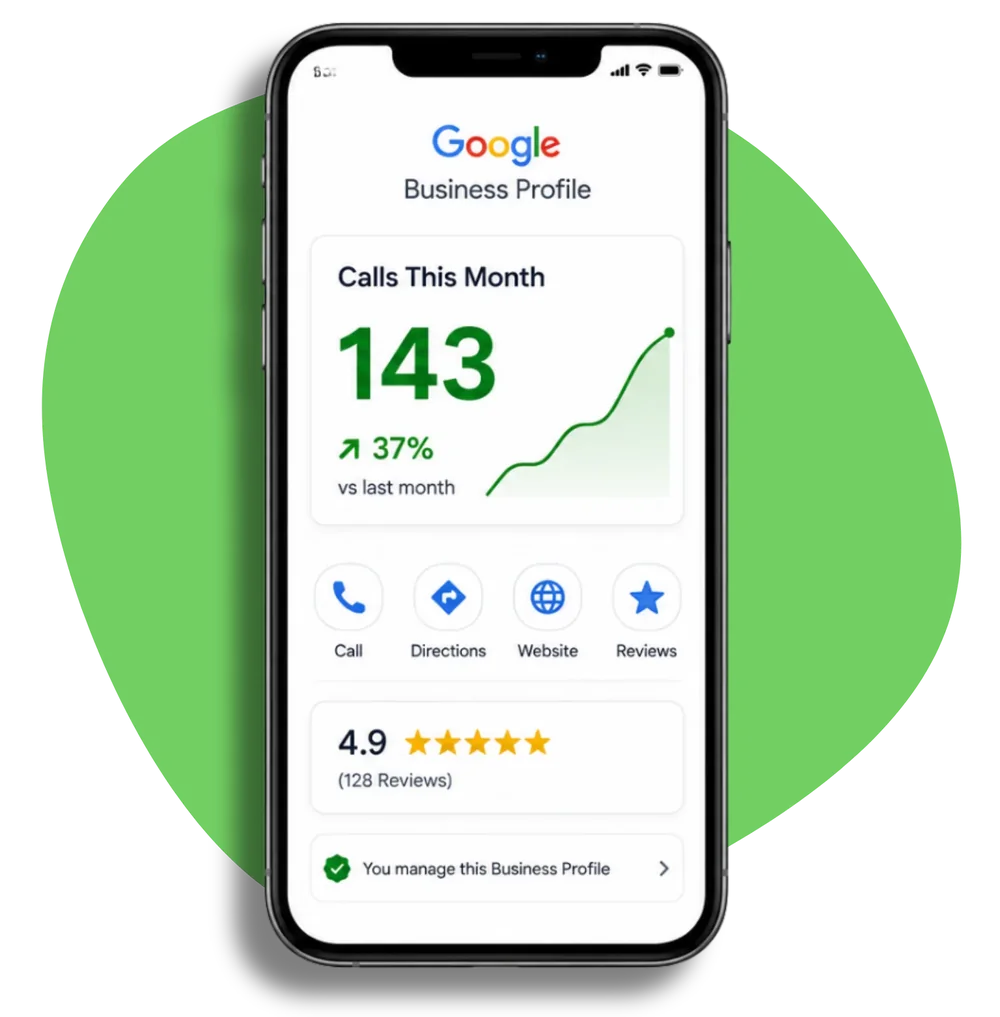
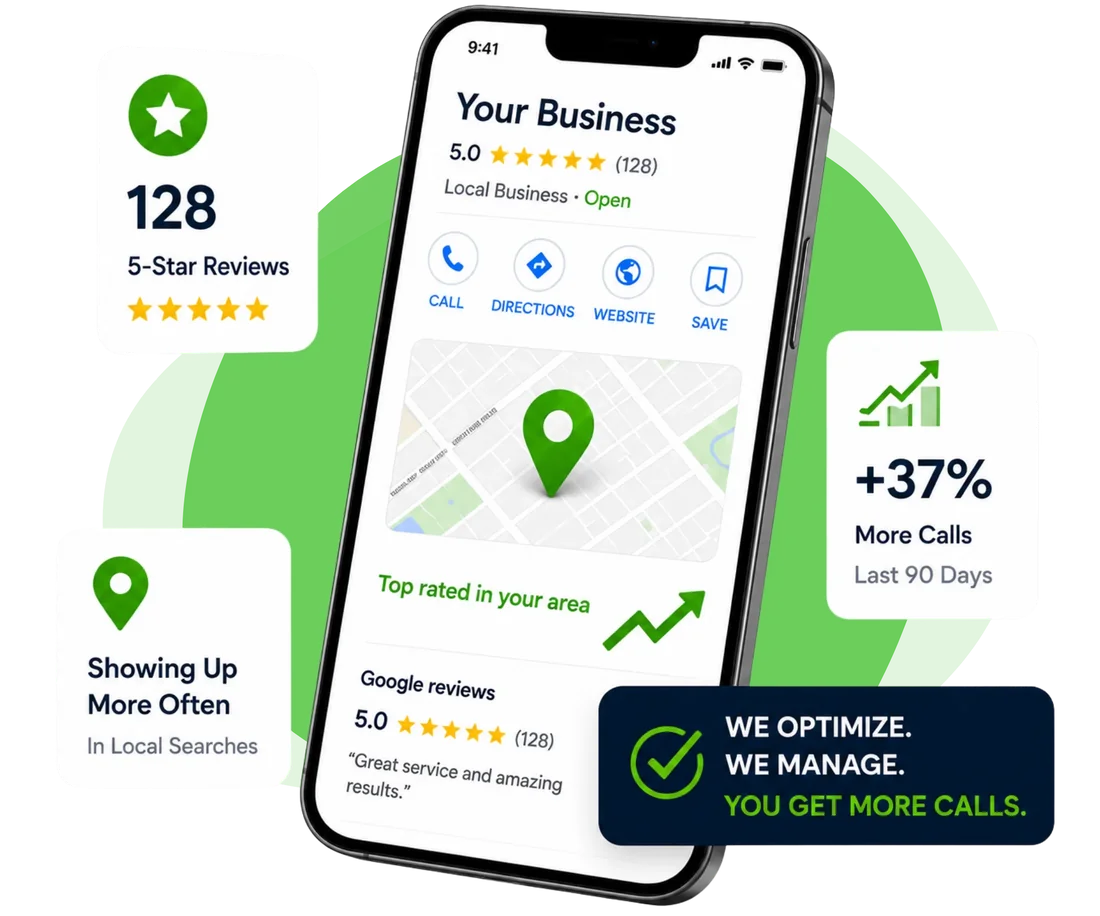
Hero uses the original composite graphic; calls phone back in final CTA
Claude-Session: https://claude.ai/code/session_01K6U76hbUx4f2DoiBpG8n3E

diff --git a/index.html b/index.html
@@ -120,7 +120,7 @@
         <p class="rating-line"><span class="stars" aria-hidden="true">★★★★★</span> <b>5.0</b> from 54 reviews across Google, Facebook &amp; Trustpilot&nbsp;·&nbsp;Real team in Springfield, MO</p>
       </div>
       <div class="hero-media">
-        <img src="assets/hero-phone.webp" alt="Google Business Profile managed by Nearby Calls: 143 calls this month, up 37%" width="1000" height="1017">
+        <img src="assets/hero-phone.webp" alt="Optimized Google Business Profile with 128 five-star reviews, showing up more often in local searches, and 37% more calls in 90 days" width="1100" height="916">
       </div>
     </div>
   </section>
@@ -506,15 +506,20 @@
 
   <!-- ============================== Final CTA ============================== -->
   <section class="final-cta" id="contact">
-    <div class="container final-cta-inner">
-      <span class="eyebrow">Your First Month Is $197</span>
-      <h2>Ready to Get More Calls From Google?</h2>
-      <p>Start today. We'll optimize your profile and get your review system running in month one. After that it's $497/month, and you can cancel anytime.</p>
-      <p><a class="btn btn-green" href="https://checkout.nearbycalls.com/?source=final">Get Started for $197</a></p>
-      <a class="audit-link" href="https://audit.portal.nearbycalls.com/">Not ready? Get a free profile audit first &rarr;</a>
-      <div class="contact-row">
-        <a href="tel:+18778485774">Call (877) 848-5774</a>
-        <a href="mailto:team@nearbycalls.com">team@nearbycalls.com</a>
+    <div class="container">
+      <div>
+        <span class="eyebrow">Your First Month Is $197</span>
+        <h2>Ready to Get More Calls From Google?</h2>
+        <p>Start today. We'll optimize your profile and get your review system running in month one. After that it's $497/month, and you can cancel anytime.</p>
+        <p><a class="btn btn-green" href="https://checkout.nearbycalls.com/?source=final">Get Started for $197</a></p>
+        <a class="audit-link" href="https://audit.portal.nearbycalls.com/">Not ready? Get a free profile audit first &rarr;</a>
+        <div class="contact-row">
+          <a href="tel:+18778485774">Call (877) 848-5774</a>
+          <a href="mailto:team@nearbycalls.com">team@nearbycalls.com</a>
+        </div>
+      </div>
+      <div class="final-media">
+        <img src="assets/cta-phone.webp" alt="Google Business Profile managed by Nearby Calls: 143 calls this month, up 37%" width="1000" height="1017">
       </div>
     </div>
   </section>

diff --git a/css/styles.css b/css/styles.css
@@ -574,8 +574,8 @@ section { padding-block: clamp(56px, 8vw, 96px); }
    Final CTA
    -------------------------------------------------------------------------- */
 .final-cta { background: var(--band); }
-.final-cta-inner { max-width: 680px; text-align: center; }
-.final-cta .contact-row { justify-content: center; }
+.final-cta .container { display: grid; grid-template-columns: 1.1fr 0.9fr; gap: 48px; align-items: center; }
+.final-media img { max-width: 440px; margin-inline: auto; }
 .final-cta h2 { color: #fff; }
 .final-cta p { color: var(--text-dark-bg); }
 .final-cta .audit-link { display: inline-block; margin-top: 16px; color: var(--green-glow); font-weight: 600; }
@@ -691,7 +691,8 @@ section { padding-block: clamp(56px, 8vw, 96px); }
   .hero .container,
   .how .container,
   .automation .container,
-  .founder .container { grid-template-columns: 1fr; gap: 34px; }
+  .founder .container,
+  .final-cta .container { grid-template-columns: 1fr; gap: 34px; }
   .hero-media { max-width: 420px; margin-inline: auto; }
   .founder-photo { max-width: 340px; margin-inline: auto; }
 
